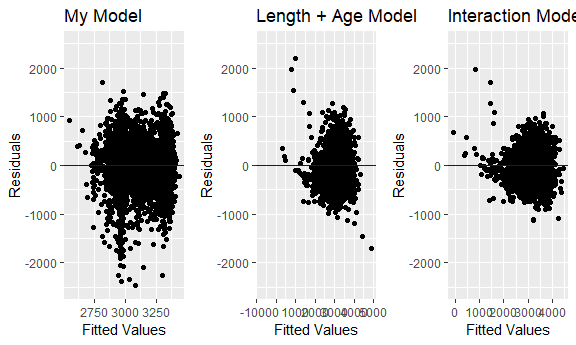
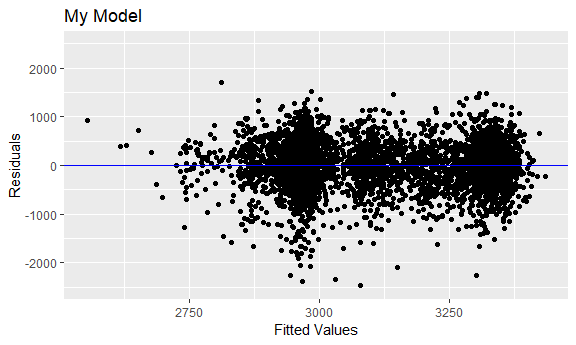
Make residual plot more visible and comment on it.

diff --git a/p8105_hw6_cj2493.md b/p8105_hw6_cj2493.md
@@ -181,36 +181,12 @@ my_mod = birthweight %>%
     ## may be misleading
 
 ``` r
-mod_length_age = birthweight %>%
-  modelr::add_predictions(., lm_length_age) %>%
-  modelr::add_residuals(., lm_length_age) %>%
-  ggplot(aes(x = pred, y = resid)) + geom_point() +
-  ylim(-2500, 2500) +
-  geom_hline(yintercept = 0, color = "blue") +
-  labs(x = "Fitted Values",
-       y = "Residuals",
-       title = "Length + Age Model")
-
-interaction_mod = birthweight %>%
-  modelr::add_predictions(., lm_interaction) %>%
-  modelr::add_residuals(., lm_interaction) %>%
-  ggplot(aes(x = pred, y = resid)) + geom_point() +
-  ylim(-2500, 2500) +
-  geom_hline(yintercept = 0, color = "blue") +
-  labs(x = "Fitted Values",
-       y = "Residuals",
-       title = "Interaction Model")
-
-my_mod + mod_length_age + interaction_mod
+my_mod 
 ```
-
-    ## Warning: Removed 1 rows containing missing values (geom_point).
-
-    ## Warning: Removed 1 rows containing missing values (geom_point).
 
 <img src="p8105_hw6_cj2493_files/figure-markdown_github/unnamed-chunk-1-1.png" width="90%" />
 
-From these, we can see that the residuals look much better for the given models than the model I tried to make.
+From these, it appears that there are some clusters in the residuals, as opposed to being entirely random. So, already we can see that maybe this is not the best model.
 
 Compare the models.
 
@@ -238,4 +214,4 @@ cv_df %>%
 
 <img src="p8105_hw6_cj2493_files/figure-markdown_github/cross_val-1.png" width="90%" />
 
-From this, we can see that the interaction model has the smalled RMSE for the three models, and is the better of the three.
+From this, we can see definitively that the interaction model has the smallest RMSE for the three models, and is thus the better of the three.
